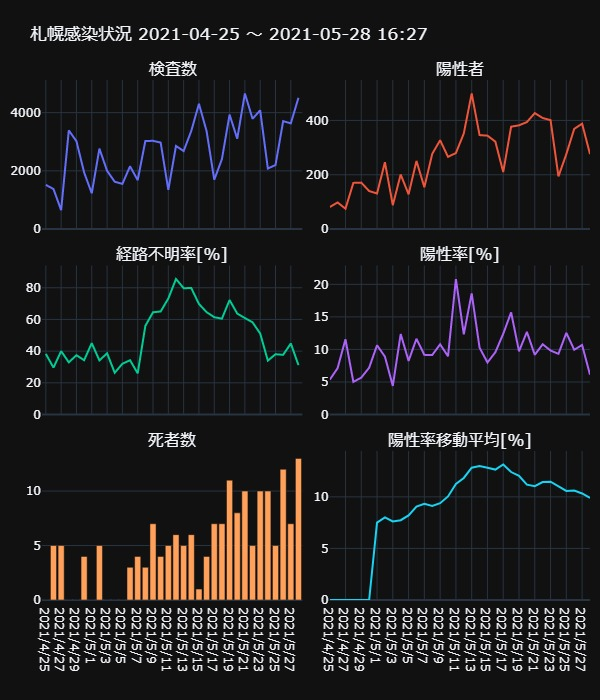
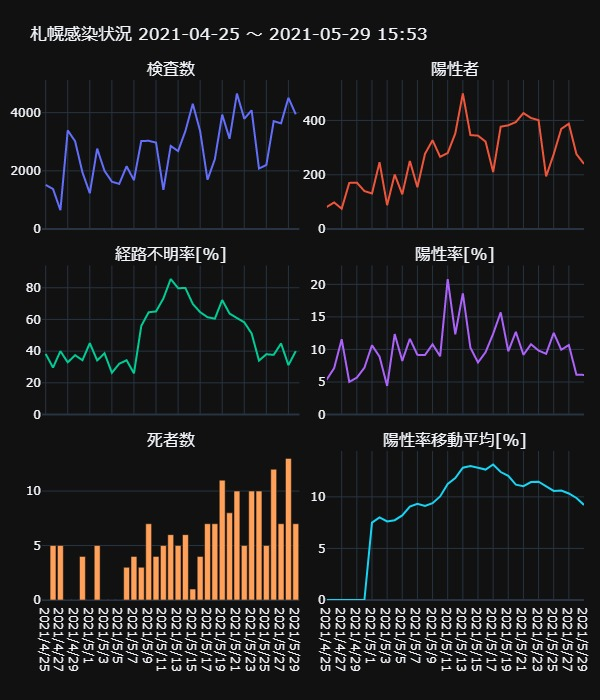
Updated with latest data.

diff --git a/docs/_includes/sapporo.html b/docs/_includes/sapporo.html
@@ -1,1 +1,1 @@
-<div>                            <div id="19017ea7-ce49-4848-8d8c-29e7b0e9922f" class="plotly-graph-div" style="height:700px; width:600px;"></div>            <script type="text/javascript">                                    window.PLOTLYENV=window.PLOTLYENV || {};                                    if (document.getElementById("19017ea7-ce49-4848-8d8c-29e7b0e9922f")) {                    Plotly.newPlot(                        "19017ea7-ce49-4848-8d8c-29e7b0e9922f",                        [{"name": "\u691c\u67fb\u6570", "type": "scatter", "x": ["2021/4/25", "2021/4/26", "2021/4/27", "2021/4/28", "2021/4/29", "2021/4/30", "2021/5/1", "2021/5/2", "2021/5/3", "2021/5/4", "2021/5/5", "2021/5/6", "2021/5/7", "2021/5/8", "2021/5/9", "2021/5/10", "2021/5/11", "2021/5/12", "2021/5/13", "2021/5/14", "2021/5/15", "2021/5/16", "2021/5/17", "2021/5/18", "2021/5/19", "2021/5/20", "2021/5/21", "2021/5/22", "2021/5/23", "2021/5/24", "2021/5/25", "2021/5/26", "2021/5/27", "2021/5/28"], "xaxis": "x", "y": [1517, 1377, 649, 3391, 3018, 1946, 1231, 2764, 2001, 1626, 1553, 2157, 1680, 3028, 3031, 2972, 1345, 2856, 2680, 3372, 4302, 3365, 1694, 2402, 3933, 3105, 4656, 3789, 4080, 2080, 2201, 3708, 3632, 4511], "yaxis": "y"}, {"name": "\u967d\u6027\u8005", "type": "scatter", "x": ["2021/4/25", "2021/4/26", "2021/4/27", "2021/4/28", "2021/4/29", "2021/4/30", "2021/5/1", "2021/5/2", "2021/5/3", "2021/5/4", "2021/5/5", "2021/5/6", "2021/5/7", "2021/5/8", "2021/5/9", "2021/5/10", "2021/5/11", "2021/5/12", "2021/5/13", "2021/5/14", "2021/5/15", "2021/5/16", "2021/5/17", "2021/5/18", "2021/5/19", "2021/5/20", "2021/5/21", "2021/5/22", "2021/5/23", "2021/5/24", "2021/5/25", "2021/5/26", "2021/5/27", "2021/5/28"], "xaxis": "x2", "y": [81, 98, 75, 170, 171, 140, 131, 246, 88, 201, 128, 251, 154, 277, 327, 266, 280, 352, 499, 346, 344, 322, 210, 377, 382, 394, 427, 409, 401, 194, 276, 369, 388, 276], "yaxis": "y2"}, {"name": "\u7d4c\u8def\u4e0d\u660e\u7387[%]", "type": "scatter", "x": ["2021/4/25", "2021/4/26", "2021/4/27", "2021/4/28", "2021/4/29", "2021/4/30", "2021/5/1", "2021/5/2", "2021/5/3", "2021/5/4", "2021/5/5", "2021/5/6", "2021/5/7", "2021/5/8", "2021/5/9", "2021/5/10", "2021/5/11", "2021/5/12", "2021/5/13", "2021/5/14", "2021/5/15", "2021/5/16", "2021/5/17", "2021/5/18", "2021/5/19", "2021/5/20", "2021/5/21", "2021/5/22", "2021/5/23", "2021/5/24", "2021/5/25", "2021/5/26", "2021/5/27", "2021/5/28"], "xaxis": "x3", "y": [38.2716049382716, 29.591836734693878, 40.0, 32.94117647058823, 37.42690058479532, 34.285714285714285, 45.038167938931295, 34.146341463414636, 38.63636363636363, 26.368159203980102, 32.03125, 34.26294820717131, 25.97402597402597, 55.95667870036101, 64.52599388379205, 65.0375939849624, 73.21428571428571, 85.51136363636364, 79.75951903807615, 79.76878612716763, 69.76744186046511, 64.59627329192547, 61.42857142857143, 60.47745358090185, 72.25130890052355, 63.70558375634518, 60.88992974238876, 58.19070904645477, 51.12219451371571, 34.02061855670103, 38.04347826086957, 37.669376693766935, 44.84536082474227, 31.15942028985507], "yaxis": "y3"}, {"name": "\u967d\u6027\u7387[%]", "type": "scatter", "x": ["2021/4/25", "2021/4/26", "2021/4/27", "2021/4/28", "2021/4/29", "2021/4/30", "2021/5/1", "2021/5/2", "2021/5/3", "2021/5/4", "2021/5/5", "2021/5/6", "2021/5/7", "2021/5/8", "2021/5/9", "2021/5/10", "2021/5/11", "2021/5/12", "2021/5/13", "2021/5/14", "2021/5/15", "2021/5/16", "2021/5/17", "2021/5/18", "2021/5/19", "2021/5/20", "2021/5/21", "2021/5/22", "2021/5/23", "2021/5/24", "2021/5/25", "2021/5/26", "2021/5/27", "2021/5/28"], "xaxis": "x4", "y": [5.339485827290705, 7.116920842411038, 11.556240369799692, 5.013270421704512, 5.666003976143141, 7.194244604316546, 10.641754670999187, 8.90014471780029, 4.397801099450275, 12.361623616236162, 8.24211204121056, 11.636532220676866, 9.166666666666666, 9.147952443857331, 10.788518640712635, 8.950201884253028, 20.817843866171003, 12.324929971988796, 18.619402985074625, 10.26097271648873, 7.996280799628081, 9.569093610698365, 12.396694214876034, 15.695253955037469, 9.712687515891178, 12.689210950080515, 9.170962199312713, 10.794404856162576, 9.82843137254902, 9.326923076923077, 12.539754656974104, 9.951456310679612, 10.682819383259911, 6.1183772999334956], "yaxis": "y4"}, {"name": "\u6b7b\u8005\u6570", "type": "bar", "x": ["2021/4/25", "2021/4/26", "2021/4/27", "2021/4/28", "2021/4/29", "2021/4/30", "2021/5/1", "2021/5/2", "2021/5/3", "2021/5/4", "2021/5/5", "2021/5/6", "2021/5/7", "2021/5/8", "2021/5/9", "2021/5/10", "2021/5/11", "2021/5/12", "2021/5/13", "2021/5/14", "2021/5/15", "2021/5/16", "2021/5/17", "2021/5/18", "2021/5/19", "2021/5/20", "2021/5/21", "2021/5/22", "2021/5/23", "2021/5/24", "2021/5/25", "2021/5/26", "2021/5/27", "2021/5/28"], "xaxis": "x5", "y": [0, 5, 5, 0, 0, 4, 0, 5, 0, 0, 0, 3, 4, 3, 7, 4, 5, 6, 5, 6, 1, 4, 7, 7, 11, 8, 10, 5, 10, 10, 5, 12, 7, 13], "yaxis": "y5"}, {"name": "\u967d\u6027\u7387\u79fb\u52d5\u5e73\u5747[%]", "type": "scatter", "x": ["2021/4/25", "2021/4/26", "2021/4/27", "2021/4/28", "2021/4/29", "2021/4/30", "2021/5/1", "2021/5/2", "2021/5/3", "2021/5/4", "2021/5/5", "2021/5/6", "2021/5/7", "2021/5/8", "2021/5/9", "2021/5/10", "2021/5/11", "2021/5/12", "2021/5/13", "2021/5/14", "2021/5/15", "2021/5/16", "2021/5/17", "2021/5/18", "2021/5/19", "2021/5/20", "2021/5/21", "2021/5/22", "2021/5/23", "2021/5/24", "2021/5/25", "2021/5/26", "2021/5/27", "2021/5/28"], "xaxis": "x6", "y": [0.0, 0.0, 0.0, 0.0, 0.0, 0.0, 7.503988673237832, 8.012654229024914, 7.624208551459091, 7.739263300950015, 8.20052638945088, 9.053458995812841, 9.335233576148571, 9.12183325798545, 9.391600961258641, 10.041943930516178, 11.249975394792585, 11.833235099189475, 12.830788065532012, 12.987117501220878, 12.8225929806167, 12.648389404900376, 13.140745452132233, 12.408946893398872, 12.035769399670638, 11.188599108957195, 11.032883320789193, 11.432615328865548, 11.469663580558498, 11.03112484656522, 10.580339232556168, 10.614449060383087, 10.32782169369443, 9.891738136640255], "yaxis": "y6"}],                        {"annotations": [{"font": {"size": 16}, "showarrow": false, "text": "\u691c\u67fb\u6570", "x": 0.2375, "xanchor": "center", "xref": "paper", "y": 1.0, "yanchor": "bottom", "yref": "paper"}, {"font": {"size": 16}, "showarrow": false, "text": "\u967d\u6027\u8005", "x": 0.7625, "xanchor": "center", "xref": "paper", "y": 1.0, "yanchor": "bottom", "yref": "paper"}, {"font": {"size": 16}, "showarrow": false, "text": "\u7d4c\u8def\u4e0d\u660e\u7387[%]", "x": 0.2375, "xanchor": "center", "xref": "paper", "y": 0.6433333333333333, "yanchor": "bottom", "yref": "paper"}, {"font": {"size": 16}, "showarrow": false, "text": "\u967d\u6027\u7387[%]", "x": 0.7625, "xanchor": "center", "xref": "paper", "y": 0.6433333333333333, "yanchor": "bottom", "yref": "paper"}, {"font": {"size": 16}, "showarrow": false, "text": "\u6b7b\u8005\u6570", "x": 0.2375, "xanchor": "center", "xref": "paper", "y": 0.2866666666666667, "yanchor": "bottom", "yref": "paper"}, {"font": {"size": 16}, "showarrow": false, "text": "\u967d\u6027\u7387\u79fb\u52d5\u5e73\u5747[%]", "x": 0.7625, "xanchor": "center", "xref": "paper", "y": 0.2866666666666667, "yanchor": "bottom", "yref": "paper"}], "height": 700, "margin": {"b": 100, "l": 10, "r": 10, "t": 80}, "showlegend": false, "template": {"data": {"bar": [{"error_x": {"color": "#f2f5fa"}, "error_y": {"color": "#f2f5fa"}, "marker": {"line": {"color": "rgb(17,17,17)", "width": 0.5}}, "type": "bar"}], "barpolar": [{"marker": {"line": {"color": "rgb(17,17,17)", "width": 0.5}}, "type": "barpolar"}], "carpet": [{"aaxis": {"endlinecolor": "#A2B1C6", "gridcolor": "#506784", "linecolor": "#506784", "minorgridcolor": "#506784", "startlinecolor": "#A2B1C6"}, "baxis": {"endlinecolor": "#A2B1C6", "gridcolor": "#506784", "linecolor": "#506784", "minorgridcolor": "#506784", "startlinecolor": "#A2B1C6"}, "type": "carpet"}], "choropleth": [{"colorbar": {"outlinewidth": 0, "ticks": ""}, "type": "choropleth"}], "contour": [{"colorbar": {"outlinewidth": 0, "ticks": ""}, "colorscale": [[0.0, "#0d0887"], [0.1111111111111111, "#46039f"], [0.2222222222222222, "#7201a8"], [0.3333333333333333, "#9c179e"], [0.4444444444444444, "#bd3786"], [0.5555555555555556, "#d8576b"], [0.6666666666666666, "#ed7953"], [0.7777777777777778, "#fb9f3a"], [0.8888888888888888, "#fdca26"], [1.0, "#f0f921"]], "type": "contour"}], "contourcarpet": [{"colorbar": {"outlinewidth": 0, "ticks": ""}, "type": "contourcarpet"}], "heatmap": [{"colorbar": {"outlinewidth": 0, "ticks": ""}, "colorscale": [[0.0, "#0d0887"], [0.1111111111111111, "#46039f"], [0.2222222222222222, "#7201a8"], [0.3333333333333333, "#9c179e"], [0.4444444444444444, "#bd3786"], [0.5555555555555556, "#d8576b"], [0.6666666666666666, "#ed7953"], [0.7777777777777778, "#fb9f3a"], [0.8888888888888888, "#fdca26"], [1.0, "#f0f921"]], "type": "heatmap"}], "heatmapgl": [{"colorbar": {"outlinewidth": 0, "ticks": ""}, "colorscale": [[0.0, "#0d0887"], [0.1111111111111111, "#46039f"], [0.2222222222222222, "#7201a8"], [0.3333333333333333, "#9c179e"], [0.4444444444444444, "#bd3786"], [0.5555555555555556, "#d8576b"], [0.6666666666666666, "#ed7953"], [0.7777777777777778, "#fb9f3a"], [0.8888888888888888, "#fdca26"], [1.0, "#f0f921"]], "type": "heatmapgl"}], "histogram": [{"marker": {"colorbar": {"outlinewidth": 0, "ticks": ""}}, "type": "histogram"}], "histogram2d": [{"colorbar": {"outlinewidth": 0, "ticks": ""}, "colorscale": [[0.0, "#0d0887"], [0.1111111111111111, "#46039f"], [0.2222222222222222, "#7201a8"], [0.3333333333333333, "#9c179e"], [0.4444444444444444, "#bd3786"], [0.5555555555555556, "#d8576b"], [0.6666666666666666, "#ed7953"], [0.7777777777777778, "#fb9f3a"], [0.8888888888888888, "#fdca26"], [1.0, "#f0f921"]], "type": "histogram2d"}], "histogram2dcontour": [{"colorbar": {"outlinewidth": 0, "ticks": ""}, "colorscale": [[0.0, "#0d0887"], [0.1111111111111111, "#46039f"], [0.2222222222222222, "#7201a8"], [0.3333333333333333, "#9c179e"], [0.4444444444444444, "#bd3786"], [0.5555555555555556, "#d8576b"], [0.6666666666666666, "#ed7953"], [0.7777777777777778, "#fb9f3a"], [0.8888888888888888, "#fdca26"], [1.0, "#f0f921"]], "type": "histogram2dcontour"}], "mesh3d": [{"colorbar": {"outlinewidth": 0, "ticks": ""}, "type": "mesh3d"}], "parcoords": [{"line": {"colorbar": {"outlinewidth": 0, "ticks": ""}}, "type": "parcoords"}], "pie": [{"automargin": true, "type": "pie"}], "scatter": [{"marker": {"line": {"color": "#283442"}}, "type": "scatter"}], "scatter3d": [{"line": {"colorbar": {"outlinewidth": 0, "ticks": ""}}, "marker": {"colorbar": {"outlinewidth": 0, "ticks": ""}}, "type": "scatter3d"}], "scattercarpet": [{"marker": {"colorbar": {"outlinewidth": 0, "ticks": ""}}, "type": "scattercarpet"}], "scattergeo": [{"marker": {"colorbar": {"outlinewidth": 0, "ticks": ""}}, "type": "scattergeo"}], "scattergl": [{"marker": {"line": {"color": "#283442"}}, "type": "scattergl"}], "scattermapbox": [{"marker": {"colorbar": {"outlinewidth": 0, "ticks": ""}}, "type": "scattermapbox"}], "scatterpolar": [{"marker": {"colorbar": {"outlinewidth": 0, "ticks": ""}}, "type": "scatterpolar"}], "scatterpolargl": [{"marker": {"colorbar": {"outlinewidth": 0, "ticks": ""}}, "type": "scatterpolargl"}], "scatterternary": [{"marker": {"colorbar": {"outlinewidth": 0, "ticks": ""}}, "type": "scatterternary"}], "surface": [{"colorbar": {"outlinewidth": 0, "ticks": ""}, "colorscale": [[0.0, "#0d0887"], [0.1111111111111111, "#46039f"], [0.2222222222222222, "#7201a8"], [0.3333333333333333, "#9c179e"], [0.4444444444444444, "#bd3786"], [0.5555555555555556, "#d8576b"], [0.6666666666666666, "#ed7953"], [0.7777777777777778, "#fb9f3a"], [0.8888888888888888, "#fdca26"], [1.0, "#f0f921"]], "type": "surface"}], "table": [{"cells": {"fill": {"color": "#506784"}, "line": {"color": "rgb(17,17,17)"}}, "header": {"fill": {"color": "#2a3f5f"}, "line": {"color": "rgb(17,17,17)"}}, "type": "table"}]}, "layout": {"annotationdefaults": {"arrowcolor": "#f2f5fa", "arrowhead": 0, "arrowwidth": 1}, "autotypenumbers": "strict", "coloraxis": {"colorbar": {"outlinewidth": 0, "ticks": ""}}, "colorscale": {"diverging": [[0, "#8e0152"], [0.1, "#c51b7d"], [0.2, "#de77ae"], [0.3, "#f1b6da"], [0.4, "#fde0ef"], [0.5, "#f7f7f7"], [0.6, "#e6f5d0"], [0.7, "#b8e186"], [0.8, "#7fbc41"], [0.9, "#4d9221"], [1, "#276419"]], "sequential": [[0.0, "#0d0887"], [0.1111111111111111, "#46039f"], [0.2222222222222222, "#7201a8"], [0.3333333333333333, "#9c179e"], [0.4444444444444444, "#bd3786"], [0.5555555555555556, "#d8576b"], [0.6666666666666666, "#ed7953"], [0.7777777777777778, "#fb9f3a"], [0.8888888888888888, "#fdca26"], [1.0, "#f0f921"]], "sequentialminus": [[0.0, "#0d0887"], [0.1111111111111111, "#46039f"], [0.2222222222222222, "#7201a8"], [0.3333333333333333, "#9c179e"], [0.4444444444444444, "#bd3786"], [0.5555555555555556, "#d8576b"], [0.6666666666666666, "#ed7953"], [0.7777777777777778, "#fb9f3a"], [0.8888888888888888, "#fdca26"], [1.0, "#f0f921"]]}, "colorway": ["#636efa", "#EF553B", "#00cc96", "#ab63fa", "#FFA15A", "#19d3f3", "#FF6692", "#B6E880", "#FF97FF", "#FECB52"], "font": {"color": "#f2f5fa"}, "geo": {"bgcolor": "rgb(17,17,17)", "lakecolor": "rgb(17,17,17)", "landcolor": "rgb(17,17,17)", "showlakes": true, "showland": true, "subunitcolor": "#506784"}, "hoverlabel": {"align": "left"}, "hovermode": "closest", "mapbox": {"style": "dark"}, "paper_bgcolor": "rgb(17,17,17)", "plot_bgcolor": "rgb(17,17,17)", "polar": {"angularaxis": {"gridcolor": "#506784", "linecolor": "#506784", "ticks": ""}, "bgcolor": "rgb(17,17,17)", "radialaxis": {"gridcolor": "#506784", "linecolor": "#506784", "ticks": ""}}, "scene": {"xaxis": {"backgroundcolor": "rgb(17,17,17)", "gridcolor": "#506784", "gridwidth": 2, "linecolor": "#506784", "showbackground": true, "ticks": "", "zerolinecolor": "#C8D4E3"}, "yaxis": {"backgroundcolor": "rgb(17,17,17)", "gridcolor": "#506784", "gridwidth": 2, "linecolor": "#506784", "showbackground": true, "ticks": "", "zerolinecolor": "#C8D4E3"}, "zaxis": {"backgroundcolor": "rgb(17,17,17)", "gridcolor": "#506784", "gridwidth": 2, "linecolor": "#506784", "showbackground": true, "ticks": "", "zerolinecolor": "#C8D4E3"}}, "shapedefaults": {"line": {"color": "#f2f5fa"}}, "sliderdefaults": {"bgcolor": "#C8D4E3", "bordercolor": "rgb(17,17,17)", "borderwidth": 1, "tickwidth": 0}, "ternary": {"aaxis": {"gridcolor": "#506784", "linecolor": "#506784", "ticks": ""}, "baxis": {"gridcolor": "#506784", "linecolor": "#506784", "ticks": ""}, "bgcolor": "rgb(17,17,17)", "caxis": {"gridcolor": "#506784", "linecolor": "#506784", "ticks": ""}}, "title": {"x": 0.05}, "updatemenudefaults": {"bgcolor": "#506784", "borderwidth": 0}, "xaxis": {"automargin": true, "gridcolor": "#283442", "linecolor": "#506784", "ticks": "", "title": {"standoff": 15}, "zerolinecolor": "#283442", "zerolinewidth": 2}, "yaxis": {"automargin": true, "gridcolor": "#283442", "linecolor": "#506784", "ticks": "", "title": {"standoff": 15}, "zerolinecolor": "#283442", "zerolinewidth": 2}}}, "title": {"text": "\u672d\u5e4c\u611f\u67d3\u72b6\u6cc1 2021-04-25 \uff5e 2021-05-28 16:27"}, "width": 600, "xaxis": {"anchor": "y", "domain": [0.0, 0.475], "matches": "x5", "showticklabels": false}, "xaxis2": {"anchor": "y2", "domain": [0.525, 1.0], "matches": "x6", "showticklabels": false}, "xaxis3": {"anchor": "y3", "domain": [0.0, 0.475], "matches": "x5", "showticklabels": false}, "xaxis4": {"anchor": "y4", "domain": [0.525, 1.0], "matches": "x6", "showticklabels": false}, "xaxis5": {"anchor": "y5", "domain": [0.0, 0.475]}, "xaxis6": {"anchor": "y6", "domain": [0.525, 1.0]}, "yaxis": {"anchor": "x", "domain": [0.7133333333333334, 1.0], "range": [0, 5121.6]}, "yaxis2": {"anchor": "x2", "domain": [0.7133333333333334, 1.0], "range": [0, 548.9000000000001]}, "yaxis3": {"anchor": "x3", "domain": [0.3566666666666667, 0.6433333333333333], "range": [0, 94.06250000000001]}, "yaxis4": {"anchor": "x4", "domain": [0.3566666666666667, 0.6433333333333333], "range": [0, 22.899628252788105]}, "yaxis5": {"anchor": "x5", "domain": [0.0, 0.2866666666666667]}, "yaxis6": {"anchor": "x6", "domain": [0.0, 0.2866666666666667], "range": [0, 14.454819997345457]}},                        {"responsive": true}                    )                };                            </script>        </div>
+<div>                            <div id="4752ecd8-a15d-4281-8e6a-0b71273f0fc2" class="plotly-graph-div" style="height:700px; width:600px;"></div>            <script type="text/javascript">                                    window.PLOTLYENV=window.PLOTLYENV || {};                                    if (document.getElementById("4752ecd8-a15d-4281-8e6a-0b71273f0fc2")) {                    Plotly.newPlot(                        "4752ecd8-a15d-4281-8e6a-0b71273f0fc2",                        [{"name": "\u691c\u67fb\u6570", "type": "scatter", "x": ["2021/4/25", "2021/4/26", "2021/4/27", "2021/4/28", "2021/4/29", "2021/4/30", "2021/5/1", "2021/5/2", "2021/5/3", "2021/5/4", "2021/5/5", "2021/5/6", "2021/5/7", "2021/5/8", "2021/5/9", "2021/5/10", "2021/5/11", "2021/5/12", "2021/5/13", "2021/5/14", "2021/5/15", "2021/5/16", "2021/5/17", "2021/5/18", "2021/5/19", "2021/5/20", "2021/5/21", "2021/5/22", "2021/5/23", "2021/5/24", "2021/5/25", "2021/5/26", "2021/5/27", "2021/5/28", "2021/5/29"], "xaxis": "x", "y": [1517, 1377, 649, 3391, 3018, 1946, 1231, 2764, 2001, 1626, 1553, 2157, 1680, 3028, 3031, 2972, 1345, 2856, 2680, 3372, 4302, 3365, 1694, 2402, 3933, 3105, 4656, 3789, 4080, 2080, 2201, 3708, 3632, 4511, 3943], "yaxis": "y"}, {"name": "\u967d\u6027\u8005", "type": "scatter", "x": ["2021/4/25", "2021/4/26", "2021/4/27", "2021/4/28", "2021/4/29", "2021/4/30", "2021/5/1", "2021/5/2", "2021/5/3", "2021/5/4", "2021/5/5", "2021/5/6", "2021/5/7", "2021/5/8", "2021/5/9", "2021/5/10", "2021/5/11", "2021/5/12", "2021/5/13", "2021/5/14", "2021/5/15", "2021/5/16", "2021/5/17", "2021/5/18", "2021/5/19", "2021/5/20", "2021/5/21", "2021/5/22", "2021/5/23", "2021/5/24", "2021/5/25", "2021/5/26", "2021/5/27", "2021/5/28", "2021/5/29"], "xaxis": "x2", "y": [81, 98, 75, 170, 171, 140, 131, 246, 88, 201, 128, 251, 154, 277, 327, 266, 280, 352, 499, 346, 344, 322, 210, 377, 382, 394, 427, 409, 401, 194, 276, 369, 388, 276, 240], "yaxis": "y2"}, {"name": "\u7d4c\u8def\u4e0d\u660e\u7387[%]", "type": "scatter", "x": ["2021/4/25", "2021/4/26", "2021/4/27", "2021/4/28", "2021/4/29", "2021/4/30", "2021/5/1", "2021/5/2", "2021/5/3", "2021/5/4", "2021/5/5", "2021/5/6", "2021/5/7", "2021/5/8", "2021/5/9", "2021/5/10", "2021/5/11", "2021/5/12", "2021/5/13", "2021/5/14", "2021/5/15", "2021/5/16", "2021/5/17", "2021/5/18", "2021/5/19", "2021/5/20", "2021/5/21", "2021/5/22", "2021/5/23", "2021/5/24", "2021/5/25", "2021/5/26", "2021/5/27", "2021/5/28", "2021/5/29"], "xaxis": "x3", "y": [38.2716049382716, 29.591836734693878, 40.0, 32.94117647058823, 37.42690058479532, 34.285714285714285, 45.038167938931295, 34.146341463414636, 38.63636363636363, 26.368159203980102, 32.03125, 34.26294820717131, 25.97402597402597, 55.95667870036101, 64.52599388379205, 65.0375939849624, 73.21428571428571, 85.51136363636364, 79.75951903807615, 79.76878612716763, 69.76744186046511, 64.59627329192547, 61.42857142857143, 60.47745358090185, 72.25130890052355, 63.70558375634518, 60.88992974238876, 58.19070904645477, 51.12219451371571, 34.02061855670103, 38.04347826086957, 37.669376693766935, 44.84536082474227, 31.15942028985507, 40.0], "yaxis": "y3"}, {"name": "\u967d\u6027\u7387[%]", "type": "scatter", "x": ["2021/4/25", "2021/4/26", "2021/4/27", "2021/4/28", "2021/4/29", "2021/4/30", "2021/5/1", "2021/5/2", "2021/5/3", "2021/5/4", "2021/5/5", "2021/5/6", "2021/5/7", "2021/5/8", "2021/5/9", "2021/5/10", "2021/5/11", "2021/5/12", "2021/5/13", "2021/5/14", "2021/5/15", "2021/5/16", "2021/5/17", "2021/5/18", "2021/5/19", "2021/5/20", "2021/5/21", "2021/5/22", "2021/5/23", "2021/5/24", "2021/5/25", "2021/5/26", "2021/5/27", "2021/5/28", "2021/5/29"], "xaxis": "x4", "y": [5.339485827290705, 7.116920842411038, 11.556240369799692, 5.013270421704512, 5.666003976143141, 7.194244604316546, 10.641754670999187, 8.90014471780029, 4.397801099450275, 12.361623616236162, 8.24211204121056, 11.636532220676866, 9.166666666666666, 9.147952443857331, 10.788518640712635, 8.950201884253028, 20.817843866171003, 12.324929971988796, 18.619402985074625, 10.26097271648873, 7.996280799628081, 9.569093610698365, 12.396694214876034, 15.695253955037469, 9.712687515891178, 12.689210950080515, 9.170962199312713, 10.794404856162576, 9.82843137254902, 9.326923076923077, 12.539754656974104, 9.951456310679612, 10.682819383259911, 6.1183772999334956, 6.086735987826528], "yaxis": "y4"}, {"name": "\u6b7b\u8005\u6570", "type": "bar", "x": ["2021/4/25", "2021/4/26", "2021/4/27", "2021/4/28", "2021/4/29", "2021/4/30", "2021/5/1", "2021/5/2", "2021/5/3", "2021/5/4", "2021/5/5", "2021/5/6", "2021/5/7", "2021/5/8", "2021/5/9", "2021/5/10", "2021/5/11", "2021/5/12", "2021/5/13", "2021/5/14", "2021/5/15", "2021/5/16", "2021/5/17", "2021/5/18", "2021/5/19", "2021/5/20", "2021/5/21", "2021/5/22", "2021/5/23", "2021/5/24", "2021/5/25", "2021/5/26", "2021/5/27", "2021/5/28", "2021/5/29"], "xaxis": "x5", "y": [0, 5, 5, 0, 0, 4, 0, 5, 0, 0, 0, 3, 4, 3, 7, 4, 5, 6, 5, 6, 1, 4, 7, 7, 11, 8, 10, 5, 10, 10, 5, 12, 7, 13, 7], "yaxis": "y5"}, {"name": "\u967d\u6027\u7387\u79fb\u52d5\u5e73\u5747[%]", "type": "scatter", "x": ["2021/4/25", "2021/4/26", "2021/4/27", "2021/4/28", "2021/4/29", "2021/4/30", "2021/5/1", "2021/5/2", "2021/5/3", "2021/5/4", "2021/5/5", "2021/5/6", "2021/5/7", "2021/5/8", "2021/5/9", "2021/5/10", "2021/5/11", "2021/5/12", "2021/5/13", "2021/5/14", "2021/5/15", "2021/5/16", "2021/5/17", "2021/5/18", "2021/5/19", "2021/5/20", "2021/5/21", "2021/5/22", "2021/5/23", "2021/5/24", "2021/5/25", "2021/5/26", "2021/5/27", "2021/5/28", "2021/5/29"], "xaxis": "x6", "y": [0.0, 0.0, 0.0, 0.0, 0.0, 0.0, 7.503988673237832, 8.012654229024914, 7.624208551459091, 7.739263300950015, 8.20052638945088, 9.053458995812841, 9.335233576148571, 9.12183325798545, 9.391600961258641, 10.041943930516178, 11.249975394792585, 11.833235099189475, 12.830788065532012, 12.987117501220878, 12.8225929806167, 12.648389404900376, 13.140745452132233, 12.408946893398872, 12.035769399670638, 11.188599108957195, 11.032883320789193, 11.432615328865548, 11.469663580558498, 11.03112484656522, 10.580339232556168, 10.614449060383087, 10.32782169369443, 9.891738136640255, 9.219214012592248], "yaxis": "y6"}],                        {"annotations": [{"font": {"size": 16}, "showarrow": false, "text": "\u691c\u67fb\u6570", "x": 0.2375, "xanchor": "center", "xref": "paper", "y": 1.0, "yanchor": "bottom", "yref": "paper"}, {"font": {"size": 16}, "showarrow": false, "text": "\u967d\u6027\u8005", "x": 0.7625, "xanchor": "center", "xref": "paper", "y": 1.0, "yanchor": "bottom", "yref": "paper"}, {"font": {"size": 16}, "showarrow": false, "text": "\u7d4c\u8def\u4e0d\u660e\u7387[%]", "x": 0.2375, "xanchor": "center", "xref": "paper", "y": 0.6433333333333333, "yanchor": "bottom", "yref": "paper"}, {"font": {"size": 16}, "showarrow": false, "text": "\u967d\u6027\u7387[%]", "x": 0.7625, "xanchor": "center", "xref": "paper", "y": 0.6433333333333333, "yanchor": "bottom", "yref": "paper"}, {"font": {"size": 16}, "showarrow": false, "text": "\u6b7b\u8005\u6570", "x": 0.2375, "xanchor": "center", "xref": "paper", "y": 0.2866666666666667, "yanchor": "bottom", "yref": "paper"}, {"font": {"size": 16}, "showarrow": false, "text": "\u967d\u6027\u7387\u79fb\u52d5\u5e73\u5747[%]", "x": 0.7625, "xanchor": "center", "xref": "paper", "y": 0.2866666666666667, "yanchor": "bottom", "yref": "paper"}], "height": 700, "margin": {"b": 100, "l": 10, "r": 10, "t": 80}, "showlegend": false, "template": {"data": {"bar": [{"error_x": {"color": "#f2f5fa"}, "error_y": {"color": "#f2f5fa"}, "marker": {"line": {"color": "rgb(17,17,17)", "width": 0.5}}, "type": "bar"}], "barpolar": [{"marker": {"line": {"color": "rgb(17,17,17)", "width": 0.5}}, "type": "barpolar"}], "carpet": [{"aaxis": {"endlinecolor": "#A2B1C6", "gridcolor": "#506784", "linecolor": "#506784", "minorgridcolor": "#506784", "startlinecolor": "#A2B1C6"}, "baxis": {"endlinecolor": "#A2B1C6", "gridcolor": "#506784", "linecolor": "#506784", "minorgridcolor": "#506784", "startlinecolor": "#A2B1C6"}, "type": "carpet"}], "choropleth": [{"colorbar": {"outlinewidth": 0, "ticks": ""}, "type": "choropleth"}], "contour": [{"colorbar": {"outlinewidth": 0, "ticks": ""}, "colorscale": [[0.0, "#0d0887"], [0.1111111111111111, "#46039f"], [0.2222222222222222, "#7201a8"], [0.3333333333333333, "#9c179e"], [0.4444444444444444, "#bd3786"], [0.5555555555555556, "#d8576b"], [0.6666666666666666, "#ed7953"], [0.7777777777777778, "#fb9f3a"], [0.8888888888888888, "#fdca26"], [1.0, "#f0f921"]], "type": "contour"}], "contourcarpet": [{"colorbar": {"outlinewidth": 0, "ticks": ""}, "type": "contourcarpet"}], "heatmap": [{"colorbar": {"outlinewidth": 0, "ticks": ""}, "colorscale": [[0.0, "#0d0887"], [0.1111111111111111, "#46039f"], [0.2222222222222222, "#7201a8"], [0.3333333333333333, "#9c179e"], [0.4444444444444444, "#bd3786"], [0.5555555555555556, "#d8576b"], [0.6666666666666666, "#ed7953"], [0.7777777777777778, "#fb9f3a"], [0.8888888888888888, "#fdca26"], [1.0, "#f0f921"]], "type": "heatmap"}], "heatmapgl": [{"colorbar": {"outlinewidth": 0, "ticks": ""}, "colorscale": [[0.0, "#0d0887"], [0.1111111111111111, "#46039f"], [0.2222222222222222, "#7201a8"], [0.3333333333333333, "#9c179e"], [0.4444444444444444, "#bd3786"], [0.5555555555555556, "#d8576b"], [0.6666666666666666, "#ed7953"], [0.7777777777777778, "#fb9f3a"], [0.8888888888888888, "#fdca26"], [1.0, "#f0f921"]], "type": "heatmapgl"}], "histogram": [{"marker": {"colorbar": {"outlinewidth": 0, "ticks": ""}}, "type": "histogram"}], "histogram2d": [{"colorbar": {"outlinewidth": 0, "ticks": ""}, "colorscale": [[0.0, "#0d0887"], [0.1111111111111111, "#46039f"], [0.2222222222222222, "#7201a8"], [0.3333333333333333, "#9c179e"], [0.4444444444444444, "#bd3786"], [0.5555555555555556, "#d8576b"], [0.6666666666666666, "#ed7953"], [0.7777777777777778, "#fb9f3a"], [0.8888888888888888, "#fdca26"], [1.0, "#f0f921"]], "type": "histogram2d"}], "histogram2dcontour": [{"colorbar": {"outlinewidth": 0, "ticks": ""}, "colorscale": [[0.0, "#0d0887"], [0.1111111111111111, "#46039f"], [0.2222222222222222, "#7201a8"], [0.3333333333333333, "#9c179e"], [0.4444444444444444, "#bd3786"], [0.5555555555555556, "#d8576b"], [0.6666666666666666, "#ed7953"], [0.7777777777777778, "#fb9f3a"], [0.8888888888888888, "#fdca26"], [1.0, "#f0f921"]], "type": "histogram2dcontour"}], "mesh3d": [{"colorbar": {"outlinewidth": 0, "ticks": ""}, "type": "mesh3d"}], "parcoords": [{"line": {"colorbar": {"outlinewidth": 0, "ticks": ""}}, "type": "parcoords"}], "pie": [{"automargin": true, "type": "pie"}], "scatter": [{"marker": {"line": {"color": "#283442"}}, "type": "scatter"}], "scatter3d": [{"line": {"colorbar": {"outlinewidth": 0, "ticks": ""}}, "marker": {"colorbar": {"outlinewidth": 0, "ticks": ""}}, "type": "scatter3d"}], "scattercarpet": [{"marker": {"colorbar": {"outlinewidth": 0, "ticks": ""}}, "type": "scattercarpet"}], "scattergeo": [{"marker": {"colorbar": {"outlinewidth": 0, "ticks": ""}}, "type": "scattergeo"}], "scattergl": [{"marker": {"line": {"color": "#283442"}}, "type": "scattergl"}], "scattermapbox": [{"marker": {"colorbar": {"outlinewidth": 0, "ticks": ""}}, "type": "scattermapbox"}], "scatterpolar": [{"marker": {"colorbar": {"outlinewidth": 0, "ticks": ""}}, "type": "scatterpolar"}], "scatterpolargl": [{"marker": {"colorbar": {"outlinewidth": 0, "ticks": ""}}, "type": "scatterpolargl"}], "scatterternary": [{"marker": {"colorbar": {"outlinewidth": 0, "ticks": ""}}, "type": "scatterternary"}], "surface": [{"colorbar": {"outlinewidth": 0, "ticks": ""}, "colorscale": [[0.0, "#0d0887"], [0.1111111111111111, "#46039f"], [0.2222222222222222, "#7201a8"], [0.3333333333333333, "#9c179e"], [0.4444444444444444, "#bd3786"], [0.5555555555555556, "#d8576b"], [0.6666666666666666, "#ed7953"], [0.7777777777777778, "#fb9f3a"], [0.8888888888888888, "#fdca26"], [1.0, "#f0f921"]], "type": "surface"}], "table": [{"cells": {"fill": {"color": "#506784"}, "line": {"color": "rgb(17,17,17)"}}, "header": {"fill": {"color": "#2a3f5f"}, "line": {"color": "rgb(17,17,17)"}}, "type": "table"}]}, "layout": {"annotationdefaults": {"arrowcolor": "#f2f5fa", "arrowhead": 0, "arrowwidth": 1}, "autotypenumbers": "strict", "coloraxis": {"colorbar": {"outlinewidth": 0, "ticks": ""}}, "colorscale": {"diverging": [[0, "#8e0152"], [0.1, "#c51b7d"], [0.2, "#de77ae"], [0.3, "#f1b6da"], [0.4, "#fde0ef"], [0.5, "#f7f7f7"], [0.6, "#e6f5d0"], [0.7, "#b8e186"], [0.8, "#7fbc41"], [0.9, "#4d9221"], [1, "#276419"]], "sequential": [[0.0, "#0d0887"], [0.1111111111111111, "#46039f"], [0.2222222222222222, "#7201a8"], [0.3333333333333333, "#9c179e"], [0.4444444444444444, "#bd3786"], [0.5555555555555556, "#d8576b"], [0.6666666666666666, "#ed7953"], [0.7777777777777778, "#fb9f3a"], [0.8888888888888888, "#fdca26"], [1.0, "#f0f921"]], "sequentialminus": [[0.0, "#0d0887"], [0.1111111111111111, "#46039f"], [0.2222222222222222, "#7201a8"], [0.3333333333333333, "#9c179e"], [0.4444444444444444, "#bd3786"], [0.5555555555555556, "#d8576b"], [0.6666666666666666, "#ed7953"], [0.7777777777777778, "#fb9f3a"], [0.8888888888888888, "#fdca26"], [1.0, "#f0f921"]]}, "colorway": ["#636efa", "#EF553B", "#00cc96", "#ab63fa", "#FFA15A", "#19d3f3", "#FF6692", "#B6E880", "#FF97FF", "#FECB52"], "font": {"color": "#f2f5fa"}, "geo": {"bgcolor": "rgb(17,17,17)", "lakecolor": "rgb(17,17,17)", "landcolor": "rgb(17,17,17)", "showlakes": true, "showland": true, "subunitcolor": "#506784"}, "hoverlabel": {"align": "left"}, "hovermode": "closest", "mapbox": {"style": "dark"}, "paper_bgcolor": "rgb(17,17,17)", "plot_bgcolor": "rgb(17,17,17)", "polar": {"angularaxis": {"gridcolor": "#506784", "linecolor": "#506784", "ticks": ""}, "bgcolor": "rgb(17,17,17)", "radialaxis": {"gridcolor": "#506784", "linecolor": "#506784", "ticks": ""}}, "scene": {"xaxis": {"backgroundcolor": "rgb(17,17,17)", "gridcolor": "#506784", "gridwidth": 2, "linecolor": "#506784", "showbackground": true, "ticks": "", "zerolinecolor": "#C8D4E3"}, "yaxis": {"backgroundcolor": "rgb(17,17,17)", "gridcolor": "#506784", "gridwidth": 2, "linecolor": "#506784", "showbackground": true, "ticks": "", "zerolinecolor": "#C8D4E3"}, "zaxis": {"backgroundcolor": "rgb(17,17,17)", "gridcolor": "#506784", "gridwidth": 2, "linecolor": "#506784", "showbackground": true, "ticks": "", "zerolinecolor": "#C8D4E3"}}, "shapedefaults": {"line": {"color": "#f2f5fa"}}, "sliderdefaults": {"bgcolor": "#C8D4E3", "bordercolor": "rgb(17,17,17)", "borderwidth": 1, "tickwidth": 0}, "ternary": {"aaxis": {"gridcolor": "#506784", "linecolor": "#506784", "ticks": ""}, "baxis": {"gridcolor": "#506784", "linecolor": "#506784", "ticks": ""}, "bgcolor": "rgb(17,17,17)", "caxis": {"gridcolor": "#506784", "linecolor": "#506784", "ticks": ""}}, "title": {"x": 0.05}, "updatemenudefaults": {"bgcolor": "#506784", "borderwidth": 0}, "xaxis": {"automargin": true, "gridcolor": "#283442", "linecolor": "#506784", "ticks": "", "title": {"standoff": 15}, "zerolinecolor": "#283442", "zerolinewidth": 2}, "yaxis": {"automargin": true, "gridcolor": "#283442", "linecolor": "#506784", "ticks": "", "title": {"standoff": 15}, "zerolinecolor": "#283442", "zerolinewidth": 2}}}, "title": {"text": "\u672d\u5e4c\u611f\u67d3\u72b6\u6cc1 2021-04-25 \uff5e 2021-05-29 15:53"}, "width": 600, "xaxis": {"anchor": "y", "domain": [0.0, 0.475], "matches": "x5", "showticklabels": false}, "xaxis2": {"anchor": "y2", "domain": [0.525, 1.0], "matches": "x6", "showticklabels": false}, "xaxis3": {"anchor": "y3", "domain": [0.0, 0.475], "matches": "x5", "showticklabels": false}, "xaxis4": {"anchor": "y4", "domain": [0.525, 1.0], "matches": "x6", "showticklabels": false}, "xaxis5": {"anchor": "y5", "domain": [0.0, 0.475]}, "xaxis6": {"anchor": "y6", "domain": [0.525, 1.0]}, "yaxis": {"anchor": "x", "domain": [0.7133333333333334, 1.0], "range": [0, 5121.6]}, "yaxis2": {"anchor": "x2", "domain": [0.7133333333333334, 1.0], "range": [0, 548.9000000000001]}, "yaxis3": {"anchor": "x3", "domain": [0.3566666666666667, 0.6433333333333333], "range": [0, 94.06250000000001]}, "yaxis4": {"anchor": "x4", "domain": [0.3566666666666667, 0.6433333333333333], "range": [0, 22.899628252788105]}, "yaxis5": {"anchor": "x5", "domain": [0.0, 0.2866666666666667]}, "yaxis6": {"anchor": "x6", "domain": [0.0, 0.2866666666666667], "range": [0, 14.454819997345457]}},                        {"responsive": true}                    )                };                            </script>        </div>
